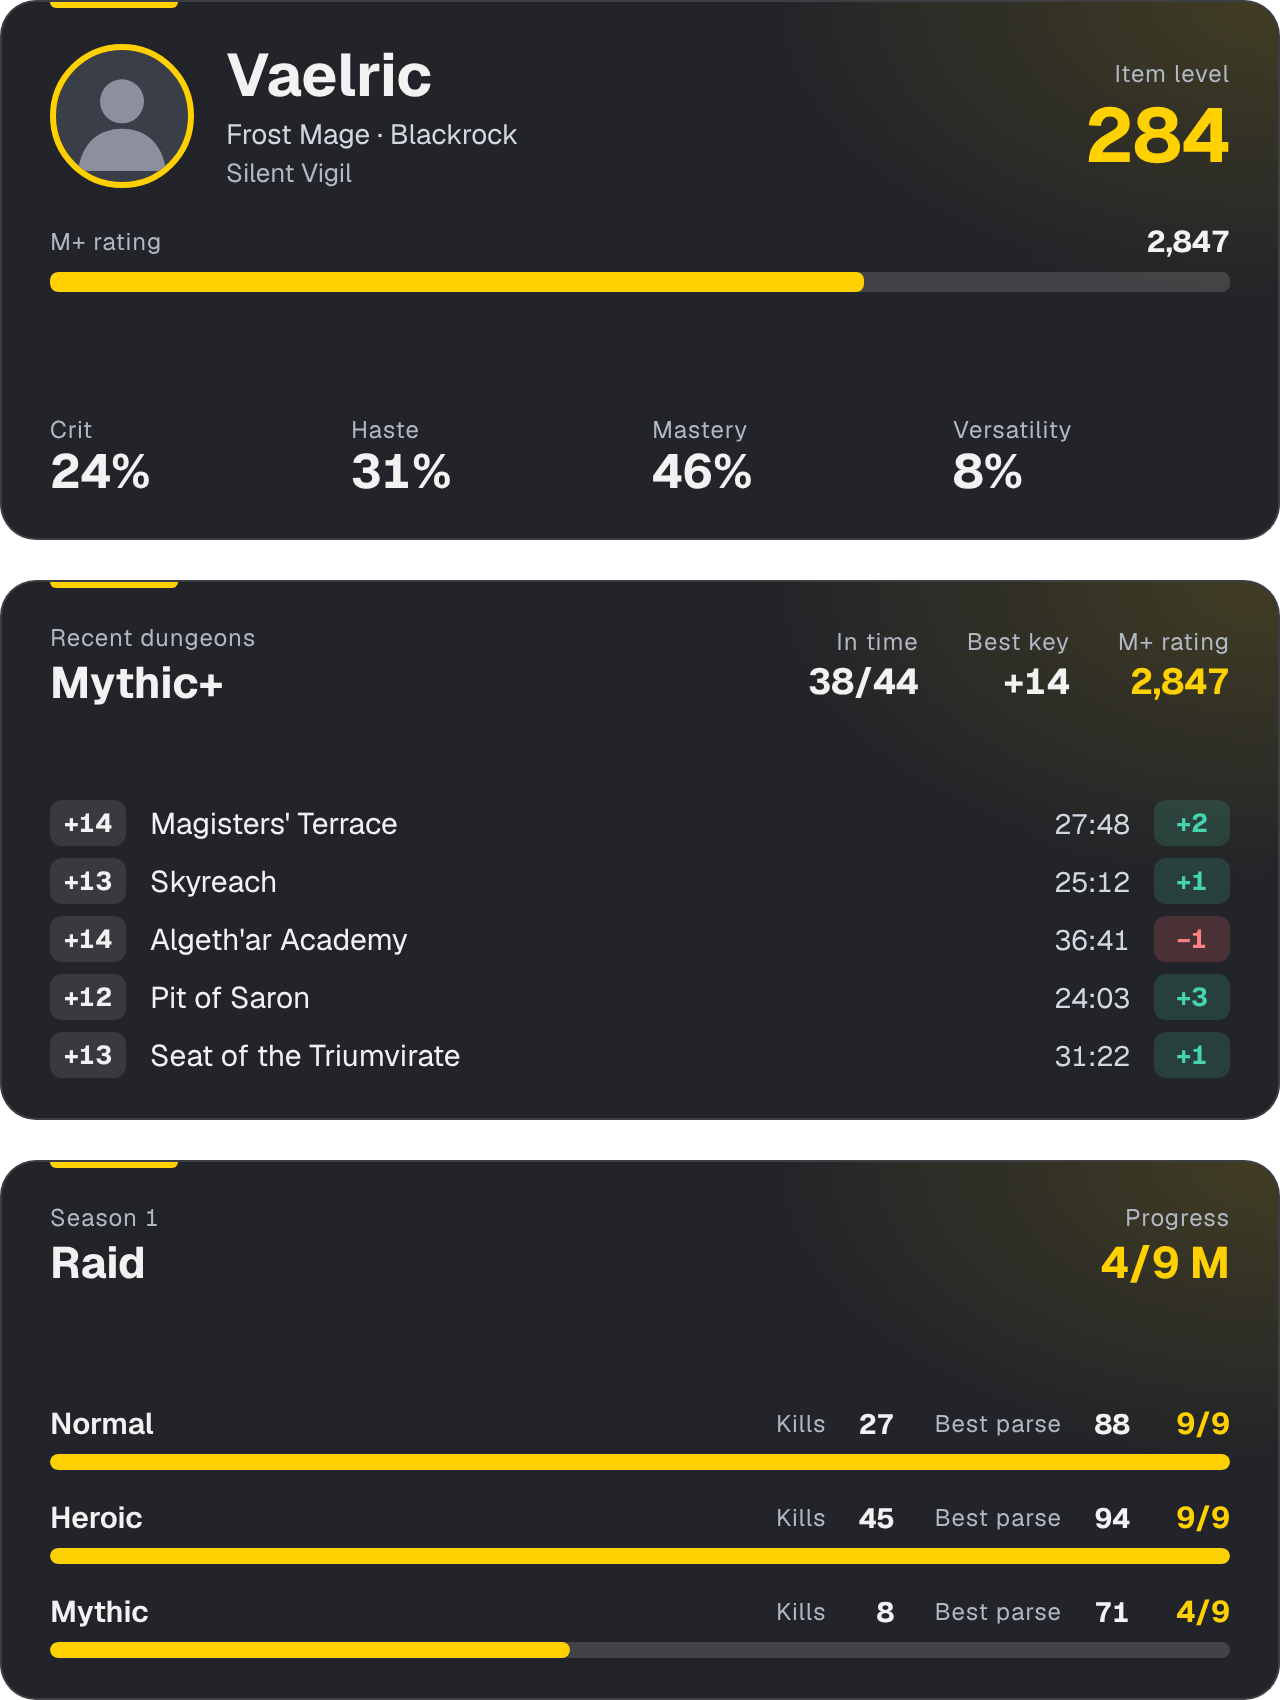
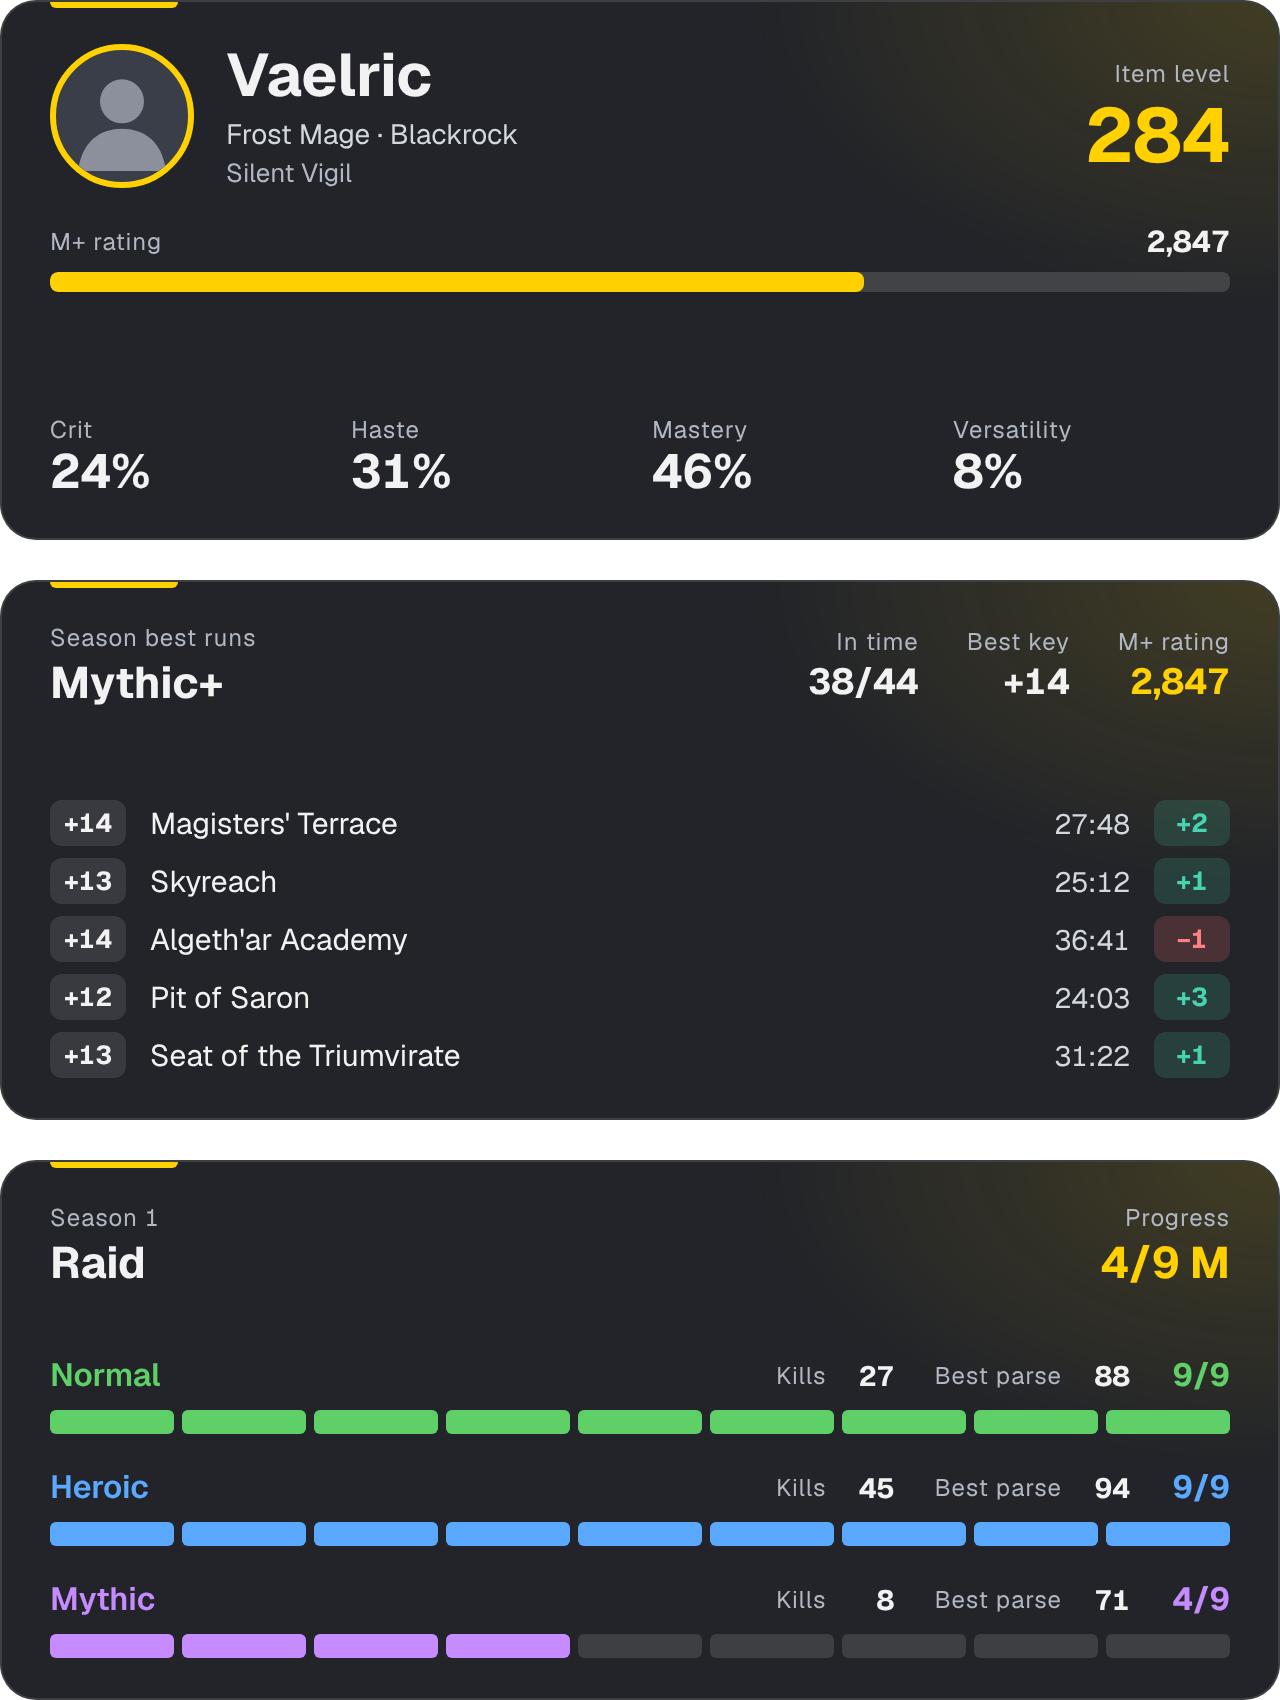
Raid difficulties in their own colours, with a choice in the editor
Normal, Heroic and Mythic show in green, blue and purple in every layout
(like the Sidebar already did). The editor can switch back to the accent
colour. README screenshots show the coloured version.

Changed region(s): [[0.0312, 0.7794, 0.9688, 0.9976], [0.125, 0.3741, 0.1562, 0.4053]]

diff --git a/public/js/i18n.js b/public/js/i18n.js
@@ -18,7 +18,7 @@ export const TEXTS = {
     diff: { normal: 'Normal', heroic: 'Heroisch', mythic: 'Mythisch' }, diffShort: { normal: 'N', heroic: 'H', mythic: 'M' },
     demo: 'Demo-Modus (Beispieldaten)', region: 'Region', dataLoading: 'Lade Charakterdaten …', live: 'Echte Daten', notFound: 'Charakter nicht gefunden, zeige Beispieldaten', offline: 'Blizzard nicht erreichbar', noKey: 'Kein Blizzard-Schlüssel, zeige Beispieldaten', saveError: 'Speichern fehlgeschlagen, Server prüfen', editorLang: 'Sprache', name: 'Name', realm: 'Realm', surname: 'Nachname', game: 'Spiel',
     layout: 'Layout', layoutA: 'Klassik', layoutC: 'Leiste', layoutD: 'Seitenleiste',
-    pages: 'Seiten', interval: 'Wechsel alle (Sekunden)', overlayLang: 'Sprache im Overlay', accent: 'Akzentfarbe', accentReset: 'Standardfarbe',
+    pages: 'Seiten', interval: 'Wechsel alle (Sekunden)', overlayLang: 'Sprache im Overlay', accent: 'Akzentfarbe', accentReset: 'Standardfarbe', diffColors: 'Schwierigkeiten', diffColored: 'Farbig (Grün, Blau, Lila)', diffAccent: 'In der Akzentfarbe',
     obs: 'In OBS einbinden', linkRotate: 'Automatischer Wechsel', copy: 'Kopieren', copied: 'Kopiert!',
     obsHint: 'OBS: Quelle hinzufügen → Browser → URL einfügen. Breite {w}, Höhe {h}.',
     preview: 'Vorschau', auto: 'Wechsel', checker: 'Schachbrett = in OBS durchsichtig',
@@ -39,7 +39,7 @@ export const TEXTS = {
     diff: { normal: 'Normal', heroic: 'Heroic', mythic: 'Mythic' }, diffShort: { normal: 'N', heroic: 'H', mythic: 'M' },
     demo: 'Demo mode (sample data)', region: 'Region', dataLoading: 'Loading character data …', live: 'Live data', notFound: 'Character not found, showing sample data', offline: 'Blizzard unreachable', noKey: 'No Blizzard key, showing sample data', saveError: 'Saving failed, check the server', editorLang: 'Language', name: 'Name', realm: 'Realm', surname: 'Surname', game: 'Game',
     layout: 'Layout', layoutA: 'Classic', layoutC: 'Bar', layoutD: 'Sidebar',
-    pages: 'Pages', interval: 'Switch every (seconds)', overlayLang: 'Overlay language', accent: 'Accent colour', accentReset: 'Default colour',
+    pages: 'Pages', interval: 'Switch every (seconds)', overlayLang: 'Overlay language', accent: 'Accent colour', accentReset: 'Default colour', diffColors: 'Difficulties', diffColored: 'Coloured (green, blue, purple)', diffAccent: 'In the accent colour',
     obs: 'Add to OBS', linkRotate: 'Automatic rotation', copy: 'Copy', copied: 'Copied!',
     obsHint: 'OBS: Add source → Browser → paste the URL. Width {w}, height {h}.',
     preview: 'Preview', auto: 'Rotation', checker: 'Checkerboard = transparent in OBS',
@@ -60,7 +60,7 @@ export const TEXTS = {
     diff: { normal: 'Обычный', heroic: 'Героический', mythic: 'Эпохальный' }, diffShort: { normal: 'О', heroic: 'Г', mythic: 'Э' },
     demo: 'Демо-режим (примерные данные)', region: 'Регион', dataLoading: 'Загрузка данных персонажа …', live: 'Реальные данные', notFound: 'Персонаж не найден, показаны примерные данные', offline: 'Blizzard недоступен', noKey: 'Нет ключа Blizzard, показаны примерные данные', saveError: 'Не удалось сохранить, проверь сервер', editorLang: 'Язык', name: 'Имя', realm: 'Игровой мир', surname: 'Фамилия', game: 'Игра',
     layout: 'Макет', layoutA: 'Классика', layoutC: 'Полоса', layoutD: 'Боковая панель',
-    pages: 'Страницы', interval: 'Смена каждые (секунд)', overlayLang: 'Язык оверлея', accent: 'Цвет акцента', accentReset: 'Цвет по умолчанию',
+    pages: 'Страницы', interval: 'Смена каждые (секунд)', overlayLang: 'Язык оверлея', accent: 'Цвет акцента', accentReset: 'Цвет по умолчанию', diffColors: 'Сложности', diffColored: 'Цветные (зелёный, синий, фиолетовый)', diffAccent: 'В цвете акцента',
     obs: 'Добавить в OBS', linkRotate: 'Автоматическая смена', copy: 'Копировать', copied: 'Скопировано!',
     obsHint: 'OBS: Добавить источник → Браузер → вставить URL. Ширина {w}, высота {h}.',
     preview: 'Предпросмотр', auto: 'Смена', checker: 'Шахматный фон = прозрачно в OBS',
@@ -81,7 +81,7 @@ export const TEXTS = {
     diff: { normal: 'Normal', heroic: 'Héroïque', mythic: 'Mythique' }, diffShort: { normal: 'N', heroic: 'H', mythic: 'M' },
     demo: 'Mode démo (données d’exemple)', region: 'Région', dataLoading: 'Chargement du personnage …', live: 'Données réelles', notFound: 'Personnage introuvable, données d’exemple affichées', offline: 'Blizzard injoignable', noKey: 'Pas de clé Blizzard, données d’exemple affichées', saveError: 'Échec de l’enregistrement, vérifie le serveur', editorLang: 'Langue', name: 'Nom', realm: 'Royaume', surname: 'Nom de famille', game: 'Jeu',
     layout: 'Disposition', layoutA: 'Classique', layoutC: 'Barre', layoutD: 'Barre latérale',
-    pages: 'Pages', interval: 'Changer toutes les (secondes)', overlayLang: 'Langue de l’overlay', accent: 'Couleur d’accent', accentReset: 'Couleur par défaut',
+    pages: 'Pages', interval: 'Changer toutes les (secondes)', overlayLang: 'Langue de l’overlay', accent: 'Couleur d’accent', accentReset: 'Couleur par défaut', diffColors: 'Difficultés', diffColored: 'En couleur (vert, bleu, violet)', diffAccent: 'Dans la couleur d’accent',
     obs: 'Ajouter à OBS', linkRotate: 'Rotation automatique', copy: 'Copier', copied: 'Copié !',
     obsHint: 'OBS : Ajouter une source → Navigateur → coller l’URL. Largeur {w}, hauteur {h}.',
     preview: 'Aperçu', auto: 'Rotation', checker: 'Damier = transparent dans OBS',

diff --git a/public/js/render.js b/public/js/render.js
@@ -83,9 +83,9 @@ const LAYOUTS = {
         <div class="stack end" style="gap:2px"><div class="lbl">${v.t.progress}</div><div class="title accent">${v.top}</div></div>
       </div>
       <div class="stack bottom" style="gap:16px">${each(v.raids, (r) => `
-        <div>
+        <div class="q-${r.id}">
           <div class="row" style="margin-bottom:7px">
-            <span class="grow" style="font-size:16px;font-weight:600">${r.name}</span>
+            <span class="grow dname" style="font-size:16px;font-weight:600">${r.name}</span>
             <span class="lbl">${v.t.kills}</span><span style="font-size:14px;font-weight:700;min-width:22px;text-align:right">${r.kills}</span>
             ${r.parse == null ? '' : `<span class="lbl" style="margin-left:8px">${v.t.parse}</span><span style="font-size:14px;font-weight:700;min-width:22px;text-align:right">${r.parse}</span>`}
             <span class="accent" style="font-size:16px;font-weight:700;margin-left:8px;min-width:30px;text-align:right">${r.prog}</span>
@@ -118,8 +118,8 @@ const LAYOUTS = {
       <div class="stack" style="min-width:110px"><div class="lbl">${v.t.progress}</div><div class="big accent">${v.top}</div></div>
       <div class="div"></div>
       ${each(v.raids, (r) => `
-        <div class="stack grow" style="gap:6px">
-          <div class="row between"><span style="font-size:14px;font-weight:600">${r.name}</span><span style="font-size:16px;font-weight:700">${r.prog}</span></div>
+        <div class="stack grow q-${r.id}" style="gap:6px">
+          <div class="row between"><span class="dname" style="font-size:14px;font-weight:600">${r.name}</span><span style="font-size:16px;font-weight:700">${r.prog}</span></div>
           <div class="pips">${r.pips}</div>
         </div>`)}`,
   },
@@ -159,5 +159,5 @@ const LAYOUTS = {
 
 export function renderPage(container, settings, state, page) {
   const inner = LAYOUTS[settings.layout][page](view(state, settings.lang));
-  container.innerHTML = `<div class="ov ${settings.layout}" lang="${settings.lang}" style="--accent:${settings.accent}">${inner}</div>`;
+  container.innerHTML = `<div class="ov ${settings.layout}${settings.diffColors ? ' qc' : ''}" lang="${settings.lang}" style="--accent:${settings.accent}">${inner}</div>`;
 }

diff --git a/public/css/overlay.css b/public/css/overlay.css
@@ -55,7 +55,7 @@ html, body { margin: 0; background: transparent; overflow: hidden; }
 .pips i { display: block; height: 8px; flex: 1 1 0; border-radius: 2px; background: rgba(255,255,255,.16); }
 .pips i.on { background: var(--accent); }
 
-/* D: Seitenleiste, Schwierigkeiten in den typischen Qualitätsfarben */
+/* D: Seitenleiste */
 .d { width: 300px; height: 590px; background: #0f1116; display: flex; flex-direction: column; border-top: 3px solid var(--accent); }
 .d .head { padding: 12px 16px; display: flex; align-items: center; gap: 10px; border-bottom: 1px solid #262a33; font-size: 14px; font-weight: 600; }
 .d .line { padding: 12px 16px; border-bottom: 1px solid #262a33; display: flex; align-items: center; justify-content: space-between; gap: 10px; }
@@ -64,8 +64,10 @@ html, body { margin: 0; background: transparent; overflow: hidden; }
 .d .diff { padding: 16px; border-bottom: 1px solid #262a33; justify-content: center; gap: 12px; }
 .d .diff:last-child { border-bottom: 0; }
 .d .diff b { color: #f2f2f2; }
-.d .diff .fill { background: var(--q); }
-.d .diff .dname { font-size: 18px; font-weight: 600; color: var(--q); }
+.d .diff .dname { font-size: 18px; font-weight: 600; }
 .q-normal { --q: #5fd068; }
 .q-heroic { --q: #5aa9ff; }
 .q-mythic { --q: #c58bff; }
+/* Farbig (Einstellung): jede Schwierigkeit in ihrer Farbe statt in der Akzentfarbe, in allen Layouts */
+.qc .q-normal, .qc .q-heroic, .qc .q-mythic { --accent: var(--q); }
+.qc .dname { color: var(--q); }

diff --git a/public/js/editor.js b/public/js/editor.js
@@ -80,6 +80,7 @@ function drawControls() {
   // Forever hat keine Realms, dort heißt das Feld Nachname
   $('realmLabel').textContent = settings.game === 'forever' ? t.surname : t.realm;
   $('accent').value = settings.accent;
+  $('diffColors').value = settings.diffColors ? 'on' : 'off';
   // Beim Tippen den Cursor nicht verlieren
   for (const id of ['name', 'realm', 'interval']) if (document.activeElement !== $(id)) $(id).value = settings[id];
 
@@ -159,6 +160,7 @@ $('region').addEventListener('change', (e) => save({ region: e.target.value }));
 $('game').addEventListener('change', (e) => save({ game: e.target.value }));
 $('interval').addEventListener('change', (e) => save({ interval: Number(e.target.value) }));
 $('accent').addEventListener('input', (e) => save({ accent: e.target.value }));
+$('diffColors').addEventListener('change', (e) => save({ diffColors: e.target.value === 'on' }));
 $('accentReset').addEventListener('click', () => save({ accent: DEFAULT_ACCENT }));
 $('logout').addEventListener('click', async () => {
   await fetch('/api/logout', { method: 'POST' });

diff --git a/src/settings.ts b/src/settings.ts
@@ -19,6 +19,7 @@ export interface Settings {
   interval: number;
   lang: Lang;
   accent: string;
+  diffColors: boolean; // Schwierigkeiten in Grün/Blau/Lila statt in der Akzentfarbe
 }
 
 export const DEFAULTS: Settings = {
@@ -31,6 +32,7 @@ export const DEFAULTS: Settings = {
   interval: 10,
   lang: 'en',
   accent: '#ffd100',
+  diffColors: true,
 };
 
 function text(value: unknown, fallback: string): string {
@@ -58,6 +60,7 @@ export function sanitize(input: unknown): Settings {
     interval: Number.isFinite(interval) ? Math.min(120, Math.max(3, Math.round(interval))) : DEFAULTS.interval,
     lang: LANGS.includes(raw.lang) ? raw.lang : DEFAULTS.lang,
     accent: typeof raw.accent === 'string' && /^#[0-9a-f]{6}$/i.test(raw.accent) ? raw.accent : DEFAULTS.accent,
+    diffColors: raw.diffColors !== false,
   };
 }
 

diff --git a/public/editor.html b/public/editor.html
@@ -60,6 +60,7 @@
             <label><span data-i18n="accent"></span><input id="accent" type="color" /></label>
           </div>
           <button id="accentReset" type="button" class="full" data-i18n="accentReset"></button>
+          <label class="field"><span data-i18n="diffColors"></span><select id="diffColors"><option value="on" data-i18n="diffColored"></option><option value="off" data-i18n="diffAccent"></option></select></label>
         </section>
         <section>
           <h2 data-i18n="obs"></h2>

diff --git a/src/settings.test.ts b/src/settings.test.ts
@@ -30,3 +30,8 @@ test('übernimmt gültige Werte', () => {
   assert.equal(s.interval, 20);
   assert.deepEqual(s.pages, { character: true, mplus: true, raid: false });
 });
+
+test('Schwierigkeiten sind farbig, außer man schaltet es aus', () => {
+  assert.equal(sanitize({}).diffColors, true);
+  assert.equal(sanitize({ diffColors: false }).diffColors, false);
+});

diff --git a/README.md b/README.md
@@ -20,7 +20,7 @@ Show your **World of Warcraft** stats in your OBS stream: character, Mythic+ and
 
 ## What it looks like
 
-**Editor:** pick a layout, switch pages on or off, change the accent colour, character name or overlay language. The preview and OBS follow every change right away.
+**Editor:** pick a layout, switch pages on or off, change the accent colour, character name or overlay language, and choose whether Normal, Heroic and Mythic show in their own colours (green, blue, purple) or in the accent colour. The preview and OBS follow every change right away.
 
 ![Editor with the overlay preview](docs/screenshots/editor.png)
 
